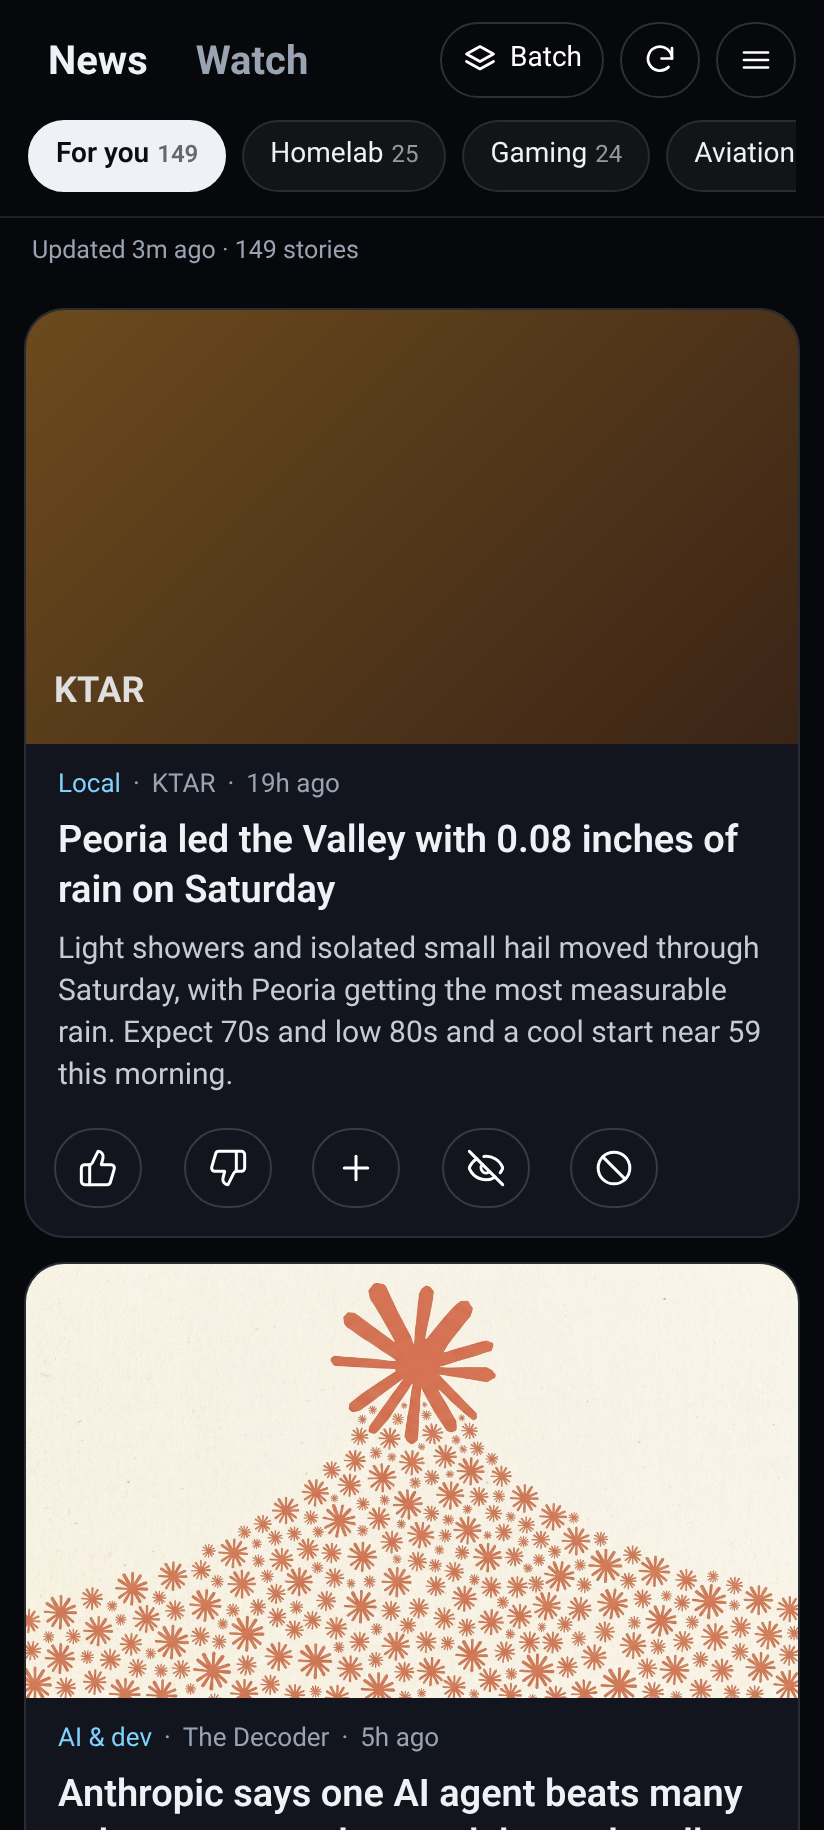
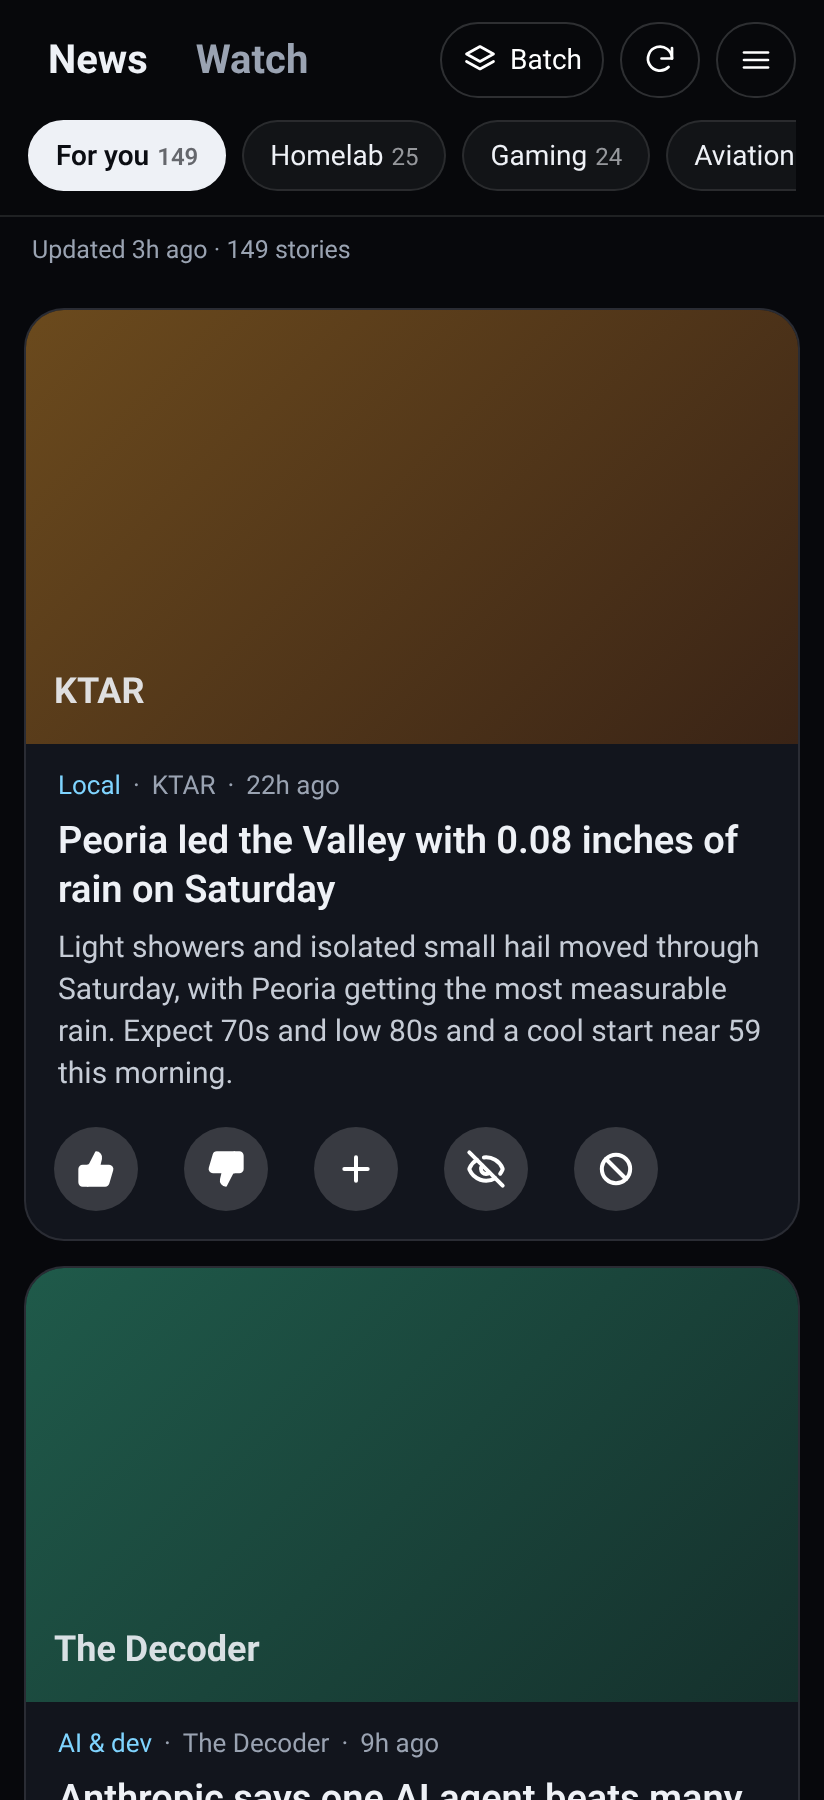
Phone feed: glass circle feedback buttons with solid thumbs (option I)

diff --git a/m/index.html b/m/index.html
@@ -51,9 +51,11 @@ h2{font-size:19px;line-height:1.3;margin:6px 0 6px;font-weight:600}
 .sum{color:#c6ccd6;font-size:15px;margin:0 0 8px}
 .acts{display:flex;gap:10px;padding:4px 14px 14px;justify-content:space-between;max-width:330px}
 .acts::-webkit-scrollbar{display:none}
-.act{flex:0 0 auto;width:44px;height:40px;display:inline-flex;align-items:center;justify-content:center;border:1px solid rgba(255,255,255,.16);background:transparent;border-radius:999px;color:#fff;padding:0}
-.act:active{transform:scale(.94);background:rgba(255,255,255,.08)}
-.act.done{background:#fff;color:#0b0d12;border-color:#fff}
+.act{flex:0 0 auto;width:42px;height:42px;display:inline-flex;align-items:center;justify-content:center;border:0;background:rgba(255,255,255,.16);-webkit-backdrop-filter:blur(8px);backdrop-filter:blur(8px);border-radius:999px;color:#fff;padding:0}
+.act .ic{width:20px;height:20px;stroke-width:2.4}
+.ic.solid{fill:currentColor;stroke-width:1.2}
+.act:active{transform:scale(.94);background:rgba(255,255,255,.28)}
+.act.done{background:#fff;color:#0b0d12}
 .ic{width:20px;height:20px;display:block}
 .ic.sm{width:14px;height:14px;display:inline-block;vertical-align:-2px;margin-right:3px}
 .legend{display:flex;flex-wrap:wrap;gap:10px 16px;margin:6px 0}
@@ -121,10 +123,11 @@ const ICON = {
   down: '<path d="M17 14V2"/><path d="M9 18.12 10 14H4.17a2 2 0 0 1-1.92-2.56l2.33-8A2 2 0 0 1 6.5 2H20a2 2 0 0 1 2 2v8a2 2 0 0 1-2 2h-2.76a2 2 0 0 0-1.79 1.11L12 22a3.13 3.13 0 0 1-3-3.88Z"/>',
   more_like_this: '<path d="M12 5v14"/><path d="M5 12h14"/>',
   hide_topic: '<path d="M10.73 5.08A10.74 10.74 0 0 1 21.94 11.65a1 1 0 0 1 0 .7 10.75 10.75 0 0 1-1.44 2.49"/><path d="M14.08 14.16a3 3 0 0 1-4.24-4.24"/><path d="M17.48 17.5a10.75 10.75 0 0 1-15.42-5.15 1 1 0 0 1 0-.7 10.75 10.75 0 0 1 4.45-5.14"/><path d="m2 2 20 20"/>',
-  hide_source: '<circle cx="12" cy="12" r="9.5"/><path d="m5.3 5.3 13.4 13.4"/>',
+  hide_source: '<circle cx="12" cy="12" r="8.5"/><path d="m6 6 12 12"/>',
   check: '<path d="M20 6 9 17l-5-5"/>',
   layers: '<path d="m12 3 9 5-9 5-9-5 9-5Z"/><path d="m3 13 9 5 9-5"/>',
 };
+const icCls = a => (a === 'up' || a === 'down') ? 'ic solid' : 'ic';
 const ACTIONS = [  // [action, accessible label, short legend label]
   ['up', 'Thumbs up', 'Up'], ['down', 'Thumbs down: hide this story', 'Down'], ['more_like_this', 'More like this', 'More like this'],
   ['hide_topic', 'Hide this topic', 'Hide topic'], ['hide_source', 'Hide this source', 'Hide source']];
@@ -210,7 +213,7 @@ function card(i){
         <p class="sum">${esc(i.summary)}</p>
       </div>
     </a>
-    <div class="acts" role="group" aria-label="Feedback">${ACTIONS.map(([a, l]) => `<button class="act${mark === a ? ' done' : ''}" data-a="${a}" aria-label="${l}" title="${l}" aria-pressed="${mark === a}">${svg(ICON[a])}</button>`).join('')}</div>
+    <div class="acts" role="group" aria-label="Feedback">${ACTIONS.map(([a, l]) => `<button class="act${mark === a ? ' done' : ''}" data-a="${a}" aria-label="${l}" title="${l}" aria-pressed="${mark === a}">${svg(ICON[a], icCls(a))}</button>`).join('')}</div>
   </article>`;
 }
 function render(keep){
@@ -335,7 +338,7 @@ function openSheet(){
     <h4>Hidden sources</h4>${rows(S.hiddenSources, 'source')}
     <h4>Hidden stories</h4>${rows(S.hiddenItems, 'item')}
     <h4>Feedback buttons</h4>
-    <div class="legend">${ACTIONS.map(([a, , l]) => `<span>${svg(ICON[a])}${l}</span>`).join('')}</div>
+    <div class="legend">${ACTIONS.map(([a, , l]) => `<span>${svg(ICON[a], icCls(a))}${l}</span>`).join('')}</div>
     <h4>Feedback</h4>
     <p class="note">Each action opens a prefilled GitHub issue on ${REPO} with the label <b>news-feedback</b>; tap Submit. Batch mode queues actions and sends them in one issue. You need to be signed in to GitHub in this browser.</p>
     <p class="note">Queued: ${S.queue.length} · issues opened from this phone: ${S.sent.length}</p>

diff --git a/m/sw.js b/m/sw.js
@@ -1,6 +1,6 @@
 // Service worker for /m/ — app shell cache-first, data network-first with cache fallback,
 // article images cached opportunistically (capped).
-const VER = 'm-v2';
+const VER = 'm-v3';
 const SHELL = 'shell-' + VER, DATA = 'data-' + VER, IMG = 'img-' + VER;
 const SHELL_FILES = ['./', './index.html', './manifest.webmanifest',
   './icons/icon-192.png', './icons/icon-512.png', './icons/maskable-512.png',

diff --git a/CURSOR_NEWS_PROMPT.md b/CURSOR_NEWS_PROMPT.md
@@ -64,7 +64,7 @@ You are working on the CT that serves the Shield TV recommendations UI and alrea
   4. **More like this** (plus icon) → action `more_like_this`
   5. **Hide topic** (eye-off icon) → action `hide_topic`
   6. **Hide source** (ban icon: a circle with a diagonal slash) → action `hide_source`
-- **Icon style (match the phone page `m/index.html`)**: plain white monochrome **line icons** as inline SVG. Use `viewBox="0 0 24 24"`, `fill="none"`, `stroke="currentColor"`, a stroke-width of about 1.8, and round caps and joins, with the button `color:#fff`. **No emoji and no colored glyphs anywhere in the UI**, including toasts, badges and empty states.
+- **Icon style (match the phone page `m/index.html`)**: white icons as inline SVG (`viewBox="0 0 24 24"`, `stroke="currentColor"`, round caps and joins) sitting on **frosted-glass circular buttons**: background `rgba(255,255,255,.16)` with a backdrop blur and no border. The thumbs-up and thumbs-down icons are **solid** (`fill="currentColor"`, stroke-width about 1.2). Plus, eye-off and ban are line icons with a stroke-width of about 2.4. **No emoji and no colored glyphs anywhere in the UI**, including toasts, badges and empty states.
   - The idle state is a transparent button with a thin white border.
   - The focused state is a white fill with a dark icon, plus the usual focus ring.
   - The "done" state (already liked) is also a white fill with a dark icon.
